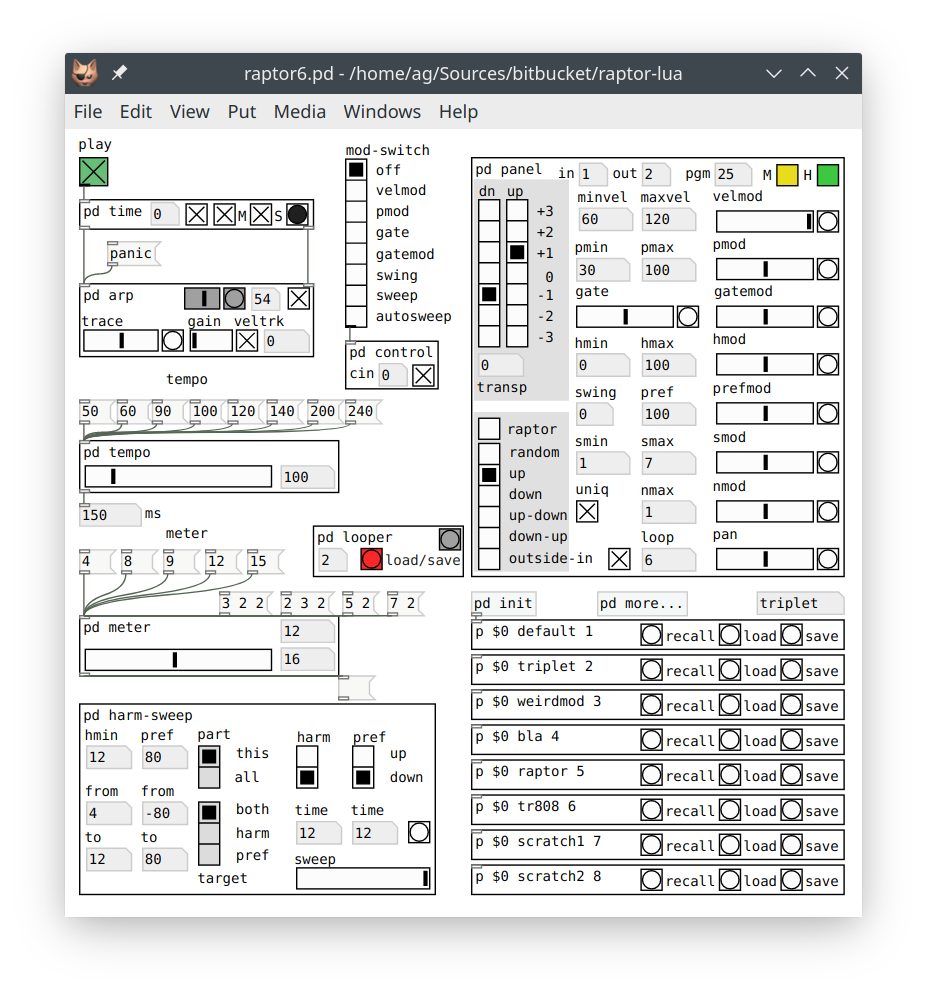
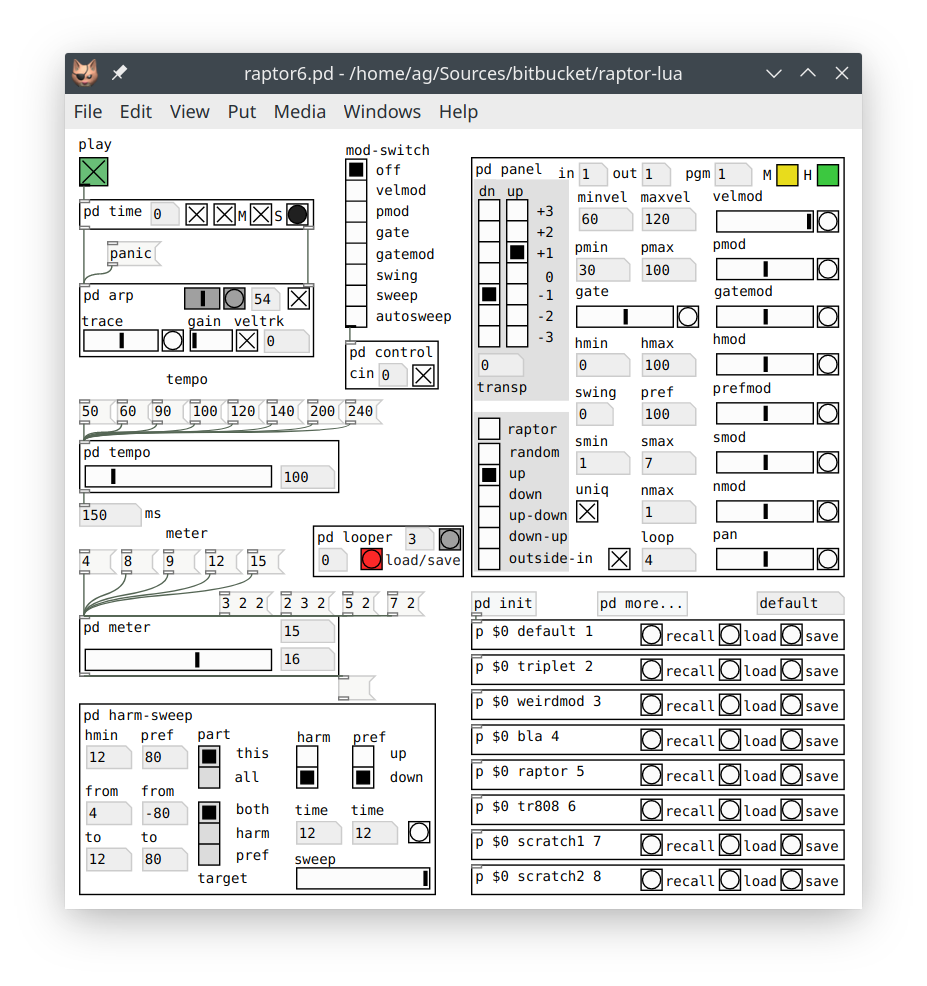
Some improvements in the looper.
- The looper subpatch now counts off bars in a numbox.
- The size of the loop can still be changed while it is playing.

diff --git a/README.md b/README.md
@@ -120,17 +120,21 @@ Last but not least, there is the parameter of harmonic *preference* (`pref`) whi
 
 By these means, patterns contain a lot more variation compared to traditional arpeggiators. With the right choice of parameters, Raptor can go from plain tonal to a more jazz-like feel to completely atonal (or even anti-tonal) in a continuous fashion. Such "harmonicity sweeps" are a hallmark feature of many of Barlow's compositions. To mimic this kind of effect in live performances, the `harm-sweep` subpatch lets you do sweeps of minimum harmonicity and/or harmonic preference either manually or in a fully automatic fashion. So you can "go Barlow" on a whim and quickly return to the safe harbor of tonality, or play an entire piece in (an approximation of) "Barlow style" with varying degrees of tonality.
 
-**NOTE:** We have to remark here that our harmonicity measure, although derived from the same indigestibility metric, isn't quite the same as the one from the Ratio book. Raptor uses a slightly modified definition from my ICMC 2006 paper which avoids the infinities for computational convenience, and redefines the octave to be equivalent to the unison. Except for the octave equivalence, our measure is essentially equivalent to Barlow's, although the specific numbers are a bit different.
+**NOTE:** We have to remark here that our harmonicity measure, although derived from the same indigestibility metric, isn't quite the same as the one from the Ratio book. Raptor uses a slightly modified definition from my ICMC 2006 paper which avoids the unison infinity in Barlow's original definition, and also redefines the octave to be equivalent to the unison. Except for the octave equivalence, our measure is essentially equivalent to Barlow's, although the specific numbers are a bit different.
 
 Here is a fun little experiment concerning harmonicities to try for yourself. Some interesting harmonicity thresholds are at about 21% (the 5th), 17% (the 4th), 10% (major 2nd and 3rd), and 9% (minor 7th and 3rd). To listen to these, make sure that raptor mode is enabled, set hmin = hmax = 100% and pref = 0%, then launch the arpeggiator and play just a single note. While still holding the same note, successively lower hmin to the various thresholds. You should then hear that Raptor gradually brings in more notes (first only unison and octave, then at 21% the 5th, etc.), and finally descends into complete anarchy (producing random notes) at hmin = 0. Next play any chord (still at hmin = 0) and bring up the pref value until it reaches 100%. Observe how your chord gradually emerges from the sea of atonality. This should give you a good initial idea about what you can achieve with these parameters. When performing live, the same kind of harmonicity and preference sweeps can be automatized with the `harm-sweep` subpatch.
 
 ### Loops
 
-Version 6 of Raptor now finally has an integrated looper facility. There are two related GUI controls, a numbox-toggle pair labeled `loop`, at the bottom of the `panel` subpatch. The numbox tells Raptor the number of bars to record. Engaging the toggle saves whatever you just played to an internal buffer (up to the given number of bars, but the looper will also be happy with less if input runs short) and immediately starts looping it. Disengaging the toggle instantly clears the loop and resumes normal arpeggiator operation. While the loop is playing, note input to the arpeggiator is suspended, so you can use your input controller to play along. Control input works normally, though, so you can also start twiddling the knobs, change presets, etc. Since the looper records the arpeggiator's *output*, not its input, most of the preset options won't have an immediate effect, but output options such as MIDI channel and program and the velocity tracker will work.
+Version 6 of Raptor now finally has an integrated looper facility. There are two related GUI controls at the bottom of the `panel` subpatch, a numbox-toggle pair labeled `loop`. The numbox tells Raptor the number of bars to record. Engaging the toggle saves whatever you just played to an internal buffer (up to the given number of bars, but the looper will also be happy with less if input runs short) and immediately starts looping it. Disengaging the toggle instantly clears the loop and resumes normal arpeggiator operation.
 
-You can see at a glance that a loop is playing by looking at the `looper` subpatch. The `save/load` button will have turned red to indicate that there's a loop that can be saved to disk, and the pulse indicator flashes at the beginning of each loop iteration. If you push the button, the file is saved in the preset folder under the name of the preset that is currently selected, with a slot number (0 to 99) from the numbox and the ".loop" extension tacked onto it. (If the file already exists, a backup copy will be created automatically.) The loop can then be reloaded later by pressing the `load/save` button again when no loop is playing. Both the `loop` and `load/save` buttons also have PACER bindings, so they can be operated hands-free.
+While the loop is playing, note input to the arpeggiator is suspended, so you can use your input controller to play along. Control input works normally, though, so you can also start twiddling the knobs, change presets, etc. Since the looper records the arpeggiator's *output*, not its input, most of the preset options won't have an immediate effect, but output options such as MIDI channel and program and the velocity tracker will work.
 
-Loops are always quantized to whole bars, so you *must* keep playing for at least one bar to have anything recorded. This kind of "launch quantization" should be well familiar to Ableton Live users, although it works a bit differently here. First, there's no overdubbing state; this wouldn't make any sense because the arpeggiator is suspended during loop playback, so there's nothing to record. Second, Raptor's looper always records "after the fact", so no separate button press is needed to explicitly start the recording. The looper is *always* listening, so once transport is rolling *and* you actually start playing, you just push the button *once* to save and loop whatever you just played. This may need some getting used to, but it's the best way to do it given Raptor's probabilistic nature, as you simply can't predict when that killer pattern will come around. On the other hand, it requires you to specify the target loop size beforehand, so some planning ahead is still needed.
+You can see at a glance that a loop is playing by looking at the `looper` subpatch. The `save/load` button will have turned red to indicate that there's a loop that can be saved to disk, the numbox at the top of the subpatch counts off the bars in the loop, and the pulse indicator flashes at the beginning of each loop iteration. There's another numbox next to the `save/load` button which allows you to set a "slot" number in the range 0..99. If you push the button, the file is saved in the preset folder under the name of the preset that is currently selected, with the slot number and the ".loop" extension tacked onto it. (If the file already exists, a numbered backup copy will be created automatically, so that you can restore the previous loop or rename it later.) The saved loop can be reloaded by pressing the `load/save` button again when no loop is playing. The `loop` and `load/save` buttons also have PACER bindings, so they can be operated hands-free.
+
+Loops are always quantized to whole bars, so you *must* keep playing for at least one bar to have anything recorded. This kind of "launch quantization" should be well familiar to Ableton Live users, although it works a bit differently here. First, there's no overdubbing state; this wouldn't make any sense because the arpeggiator is suspended during loop playback, so there's nothing to record. Second, Raptor's looper always records "after the fact", so no separate button press is needed to initiate the recording. The looper is *always* listening, so once transport is rolling *and* you actually start playing, you just push the `loop` button *once* to save and loop whatever you just played. If you mess up, pushing the button *twice* will get rid of any pending input and clear the loop buffer at the same time, so that you can start over. This kind of workflow may need some getting used to, but it's the best way to do it given Raptor's probabilistic nature, as you can't predict when that killer pattern will come around.
+
+Not having to first arm the looper is nice, but in exchange it requires you to specify the target loop size beforehand, which can be a nuisance. As a remedy, the loop size can still be changed at any time while the loop is already playing. If you don't know the size of the loop beforehand, just set it to a fairly large number, start playing, and push the `loop` button when you're done. Listen to the loop and shorten it to the number of bars you want to keep. (You can also increase the loop size again, but not past the length that was initially recorded.) If you then push the `save` button, only the set number of bars will be saved on disk.
 
 ## Bugs and Limitations
 
@@ -150,7 +154,7 @@ There's not really much that can be done about this on the Raptor side, as the l
 
 It goes without saying that Raptor's looper is (by design) quite basic. Its main purpose is to give you a simple way of putting a generated musical phrase on repeat while you have your hands free for soloing, diffusion (knob-twiddling), or recording that beautiful pattern before it vanishes forever. It also allows you to save loops on disk, and those .loop files are just Lua tables, so they can easily be edited in a text editor or processed in Lua. But if you need more features, then I'd recommend combining Raptor with a DAW tailored to live usage, such as Ableton Live or Bitwig Studio, or even just a standard DAW like Ardour or Reaper. In particular, this gives you the ability to record the *input* to the arpeggiator, which makes it much easier to tweak the results later.
 
-That said, some usability improvements might still be in order. Since there's no overdubbing, you have to get the entire loop right at first attempt; if you mess up, you have to clear the entire loop and start over. Also, having to specify the loop size beforehand is a nuisance. There could be more convenient ways to edit saved loops, maybe through MIDI export and import. The velocity tracker levels aren't saved with the loops, so a loop may sound much louder or quieter next time you load it; fortunately, it's easy to work around this issue by adjusting the tracker level. Some other limitations in the current implementation are that at most 256 steps can be recorded, and quantization is restricted to whole bars. The former probably isn't a big deal in practice and can easily be changed in the source if needed. But the user might certainly want to change the latter to different subdivisions of the meter, which currently isn't possible.
+That said, some usability improvements might still be in order. The velocity tracker levels aren't currently saved, so a loop may sound much louder or quieter next time you load it; fortunately, it's easy to work around this by adjusting the tracker level. Since there's no overdubbing, you have to get the entire loop right at first attempt; if you mess up, you have to clear the loop and start over. More advanced loop editing capabilities would be nice to have, maybe through MIDI export and import; but then again, if you want Ableton Live, you know where to get it. Other limitations in the current implementation are that at most 256 steps can be recorded, and quantization is restricted to whole bars. The former probably isn't a big deal in practice and can easily be changed in the source if needed. But the user might want to change the latter to different subdivisions of the meter, which currently isn't possible.
 
 
 
